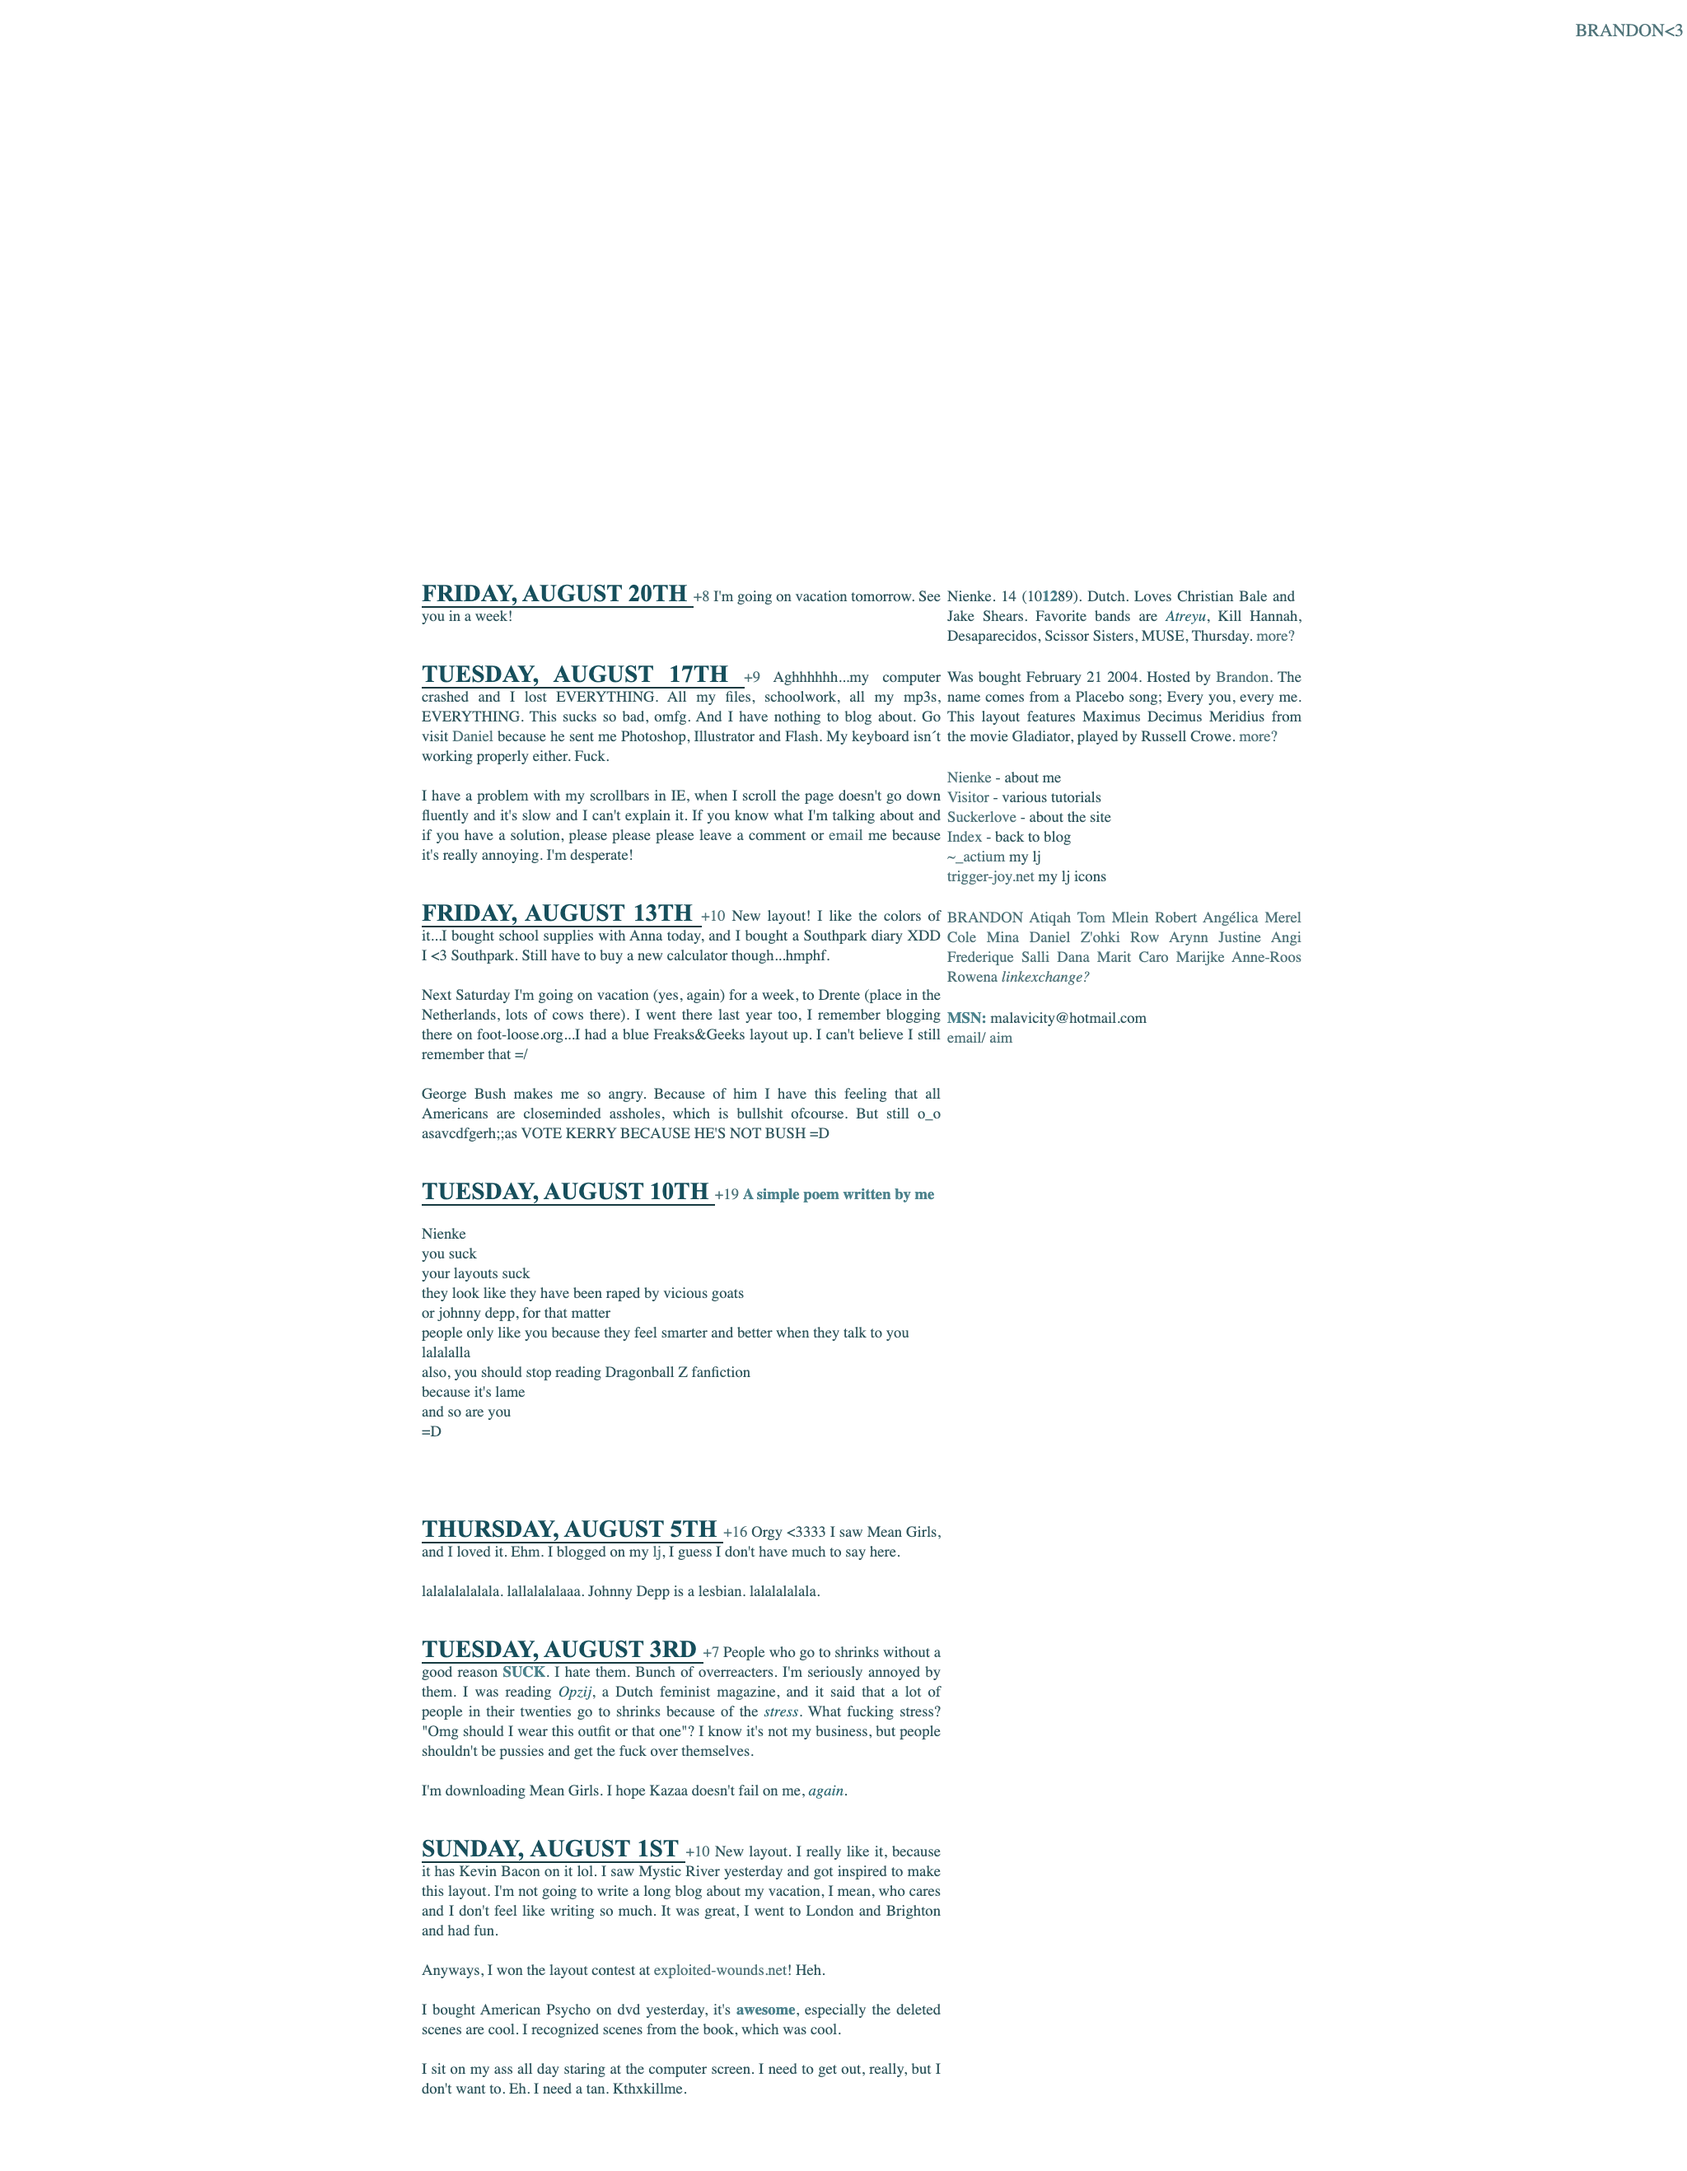
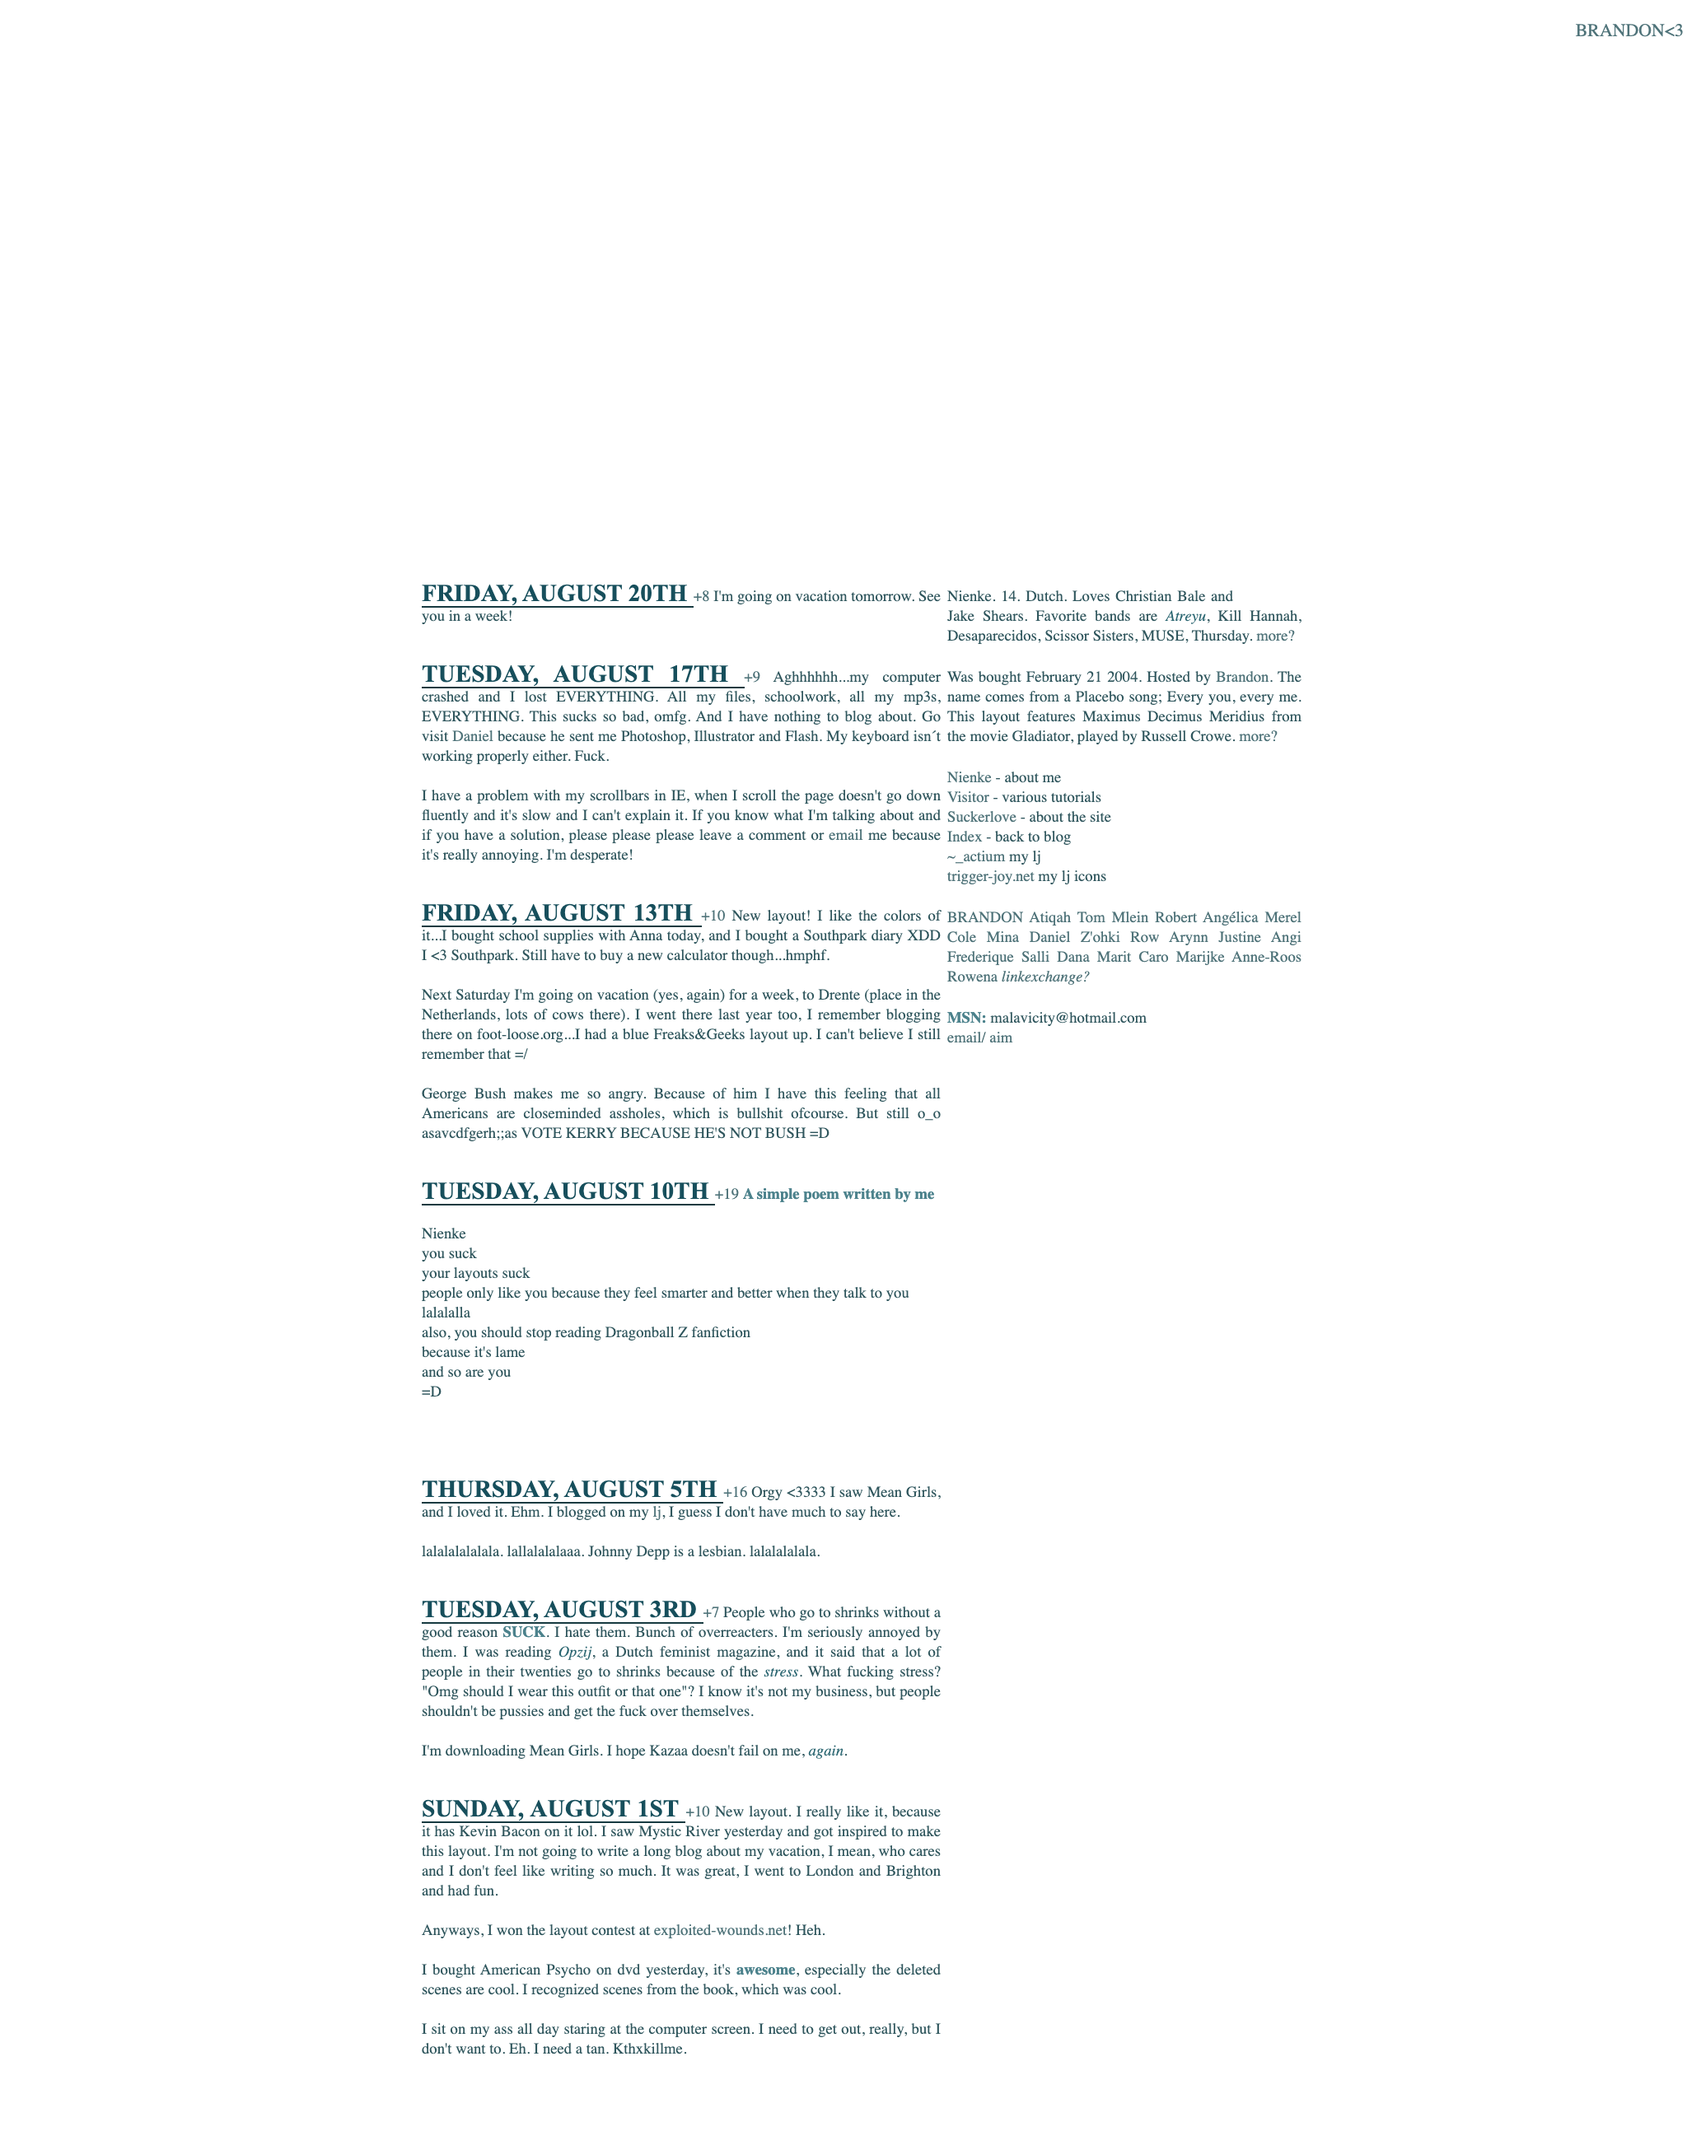
remove a slur, a rape joke and my birthdate from old suckerlove screenshots

Changed region(s): [[0.25, 0.2473, 0.7812, 0.9583]]

diff --git a/apps/nienke.dev/src/data/old-sites.ts b/apps/nienke.dev/src/data/old-sites.ts
@@ -305,7 +305,7 @@ Or me. Whatever.`,
           src: "/old-sites/suckerlove-20040825.png",
           alt: "A white page with teal Georgia blog posts and uppercase date headings, and a sidebar about Nienke, the site and friends",
           width: 1024,
-          height: 1318,
+          height: 1294,
           caption: "The Gladiator header and the little heading images weren't saved.",
         },
         note: "This layout featured Maximus from Gladiator. In the same month my computer crashed and I lost everything, and my online friend Daniël sent me Photoshop, Illustrator and Flash. I don't actually remember this but I guess I blogged about it.",
@@ -363,7 +363,7 @@ Or me. Whatever.`,
           src: "/old-sites/suckerlove-20041217.png",
           alt: "A grey-blue page with a sidebar on the left and blog posts with pale blue uppercase date bars",
           width: 1024,
-          height: 1578,
+          height: 1250,
           caption: "The header and background weren't saved.",
         },
       },
